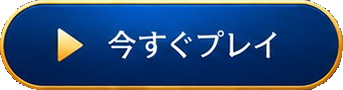
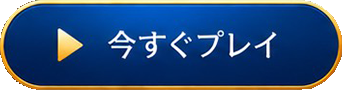
「今すぐプレイ」ボタン画像を更新(Ver.1.039)
ユーザーが素材を微調整(assets/entry-banner-cta.png)、サイズ(342x90)はほぼ変わらずのため
HTML/CSS側の変更は不要。

diff --git a/index.html b/index.html
@@ -15,7 +15,7 @@
        古ければ、ブラウザがキャッシュした古いファイルを見ている/pushがまだ反映されていないと一目で
        わかるようにするための目印(実際の挙動には一切影響しない、純粋な表示用の目印)。main.js/index.html/
        data/をpushするたびにここをインクリメントすること。 -->
-  <div id="copyright-notice">© 2026 higebucho Ver.1.038</div>
+  <div id="copyright-notice">© 2026 higebucho Ver.1.039</div>
 
   <!-- 入口バナー (2026-10-04, per user request: "HPに入ったときに大き目バナーを用意して導線をわかりやすく
        したい") -- #app/#weekly-seat-pickerと同じ「画面を丸ごと差し替える」パターン(main.jsのrender()
@@ -38,7 +38,7 @@
         <!-- バージョン表示 (2026-10-08, per user request: "セリフで見えにくいので トップ画像の右下にも") --
              #copyright-noticeはゲーム中のセリフ吹き出しに隠れて見えにくいため、入口バナー(トップ画像)の
              右下にも同じ番号を複製表示する。中身は#copyright-noticeと手動で同期させること。 -->
-        <div id="entry-banner__version">Ver.1.038</div>
+        <div id="entry-banner__version">Ver.1.039</div>
         <!-- 見出し文言+CTA (2026-10-11, per user request: "ダイスで築く、あなただけの王国。などの文言も
              前と同じように表示して 今すぐプレイボタンも" -- 旧画像に焼き込まれていたキャッチコピーを、
              新背景では実テキストとして表示(per user: "文言は後から変更できるように" -- 画像ではなく
